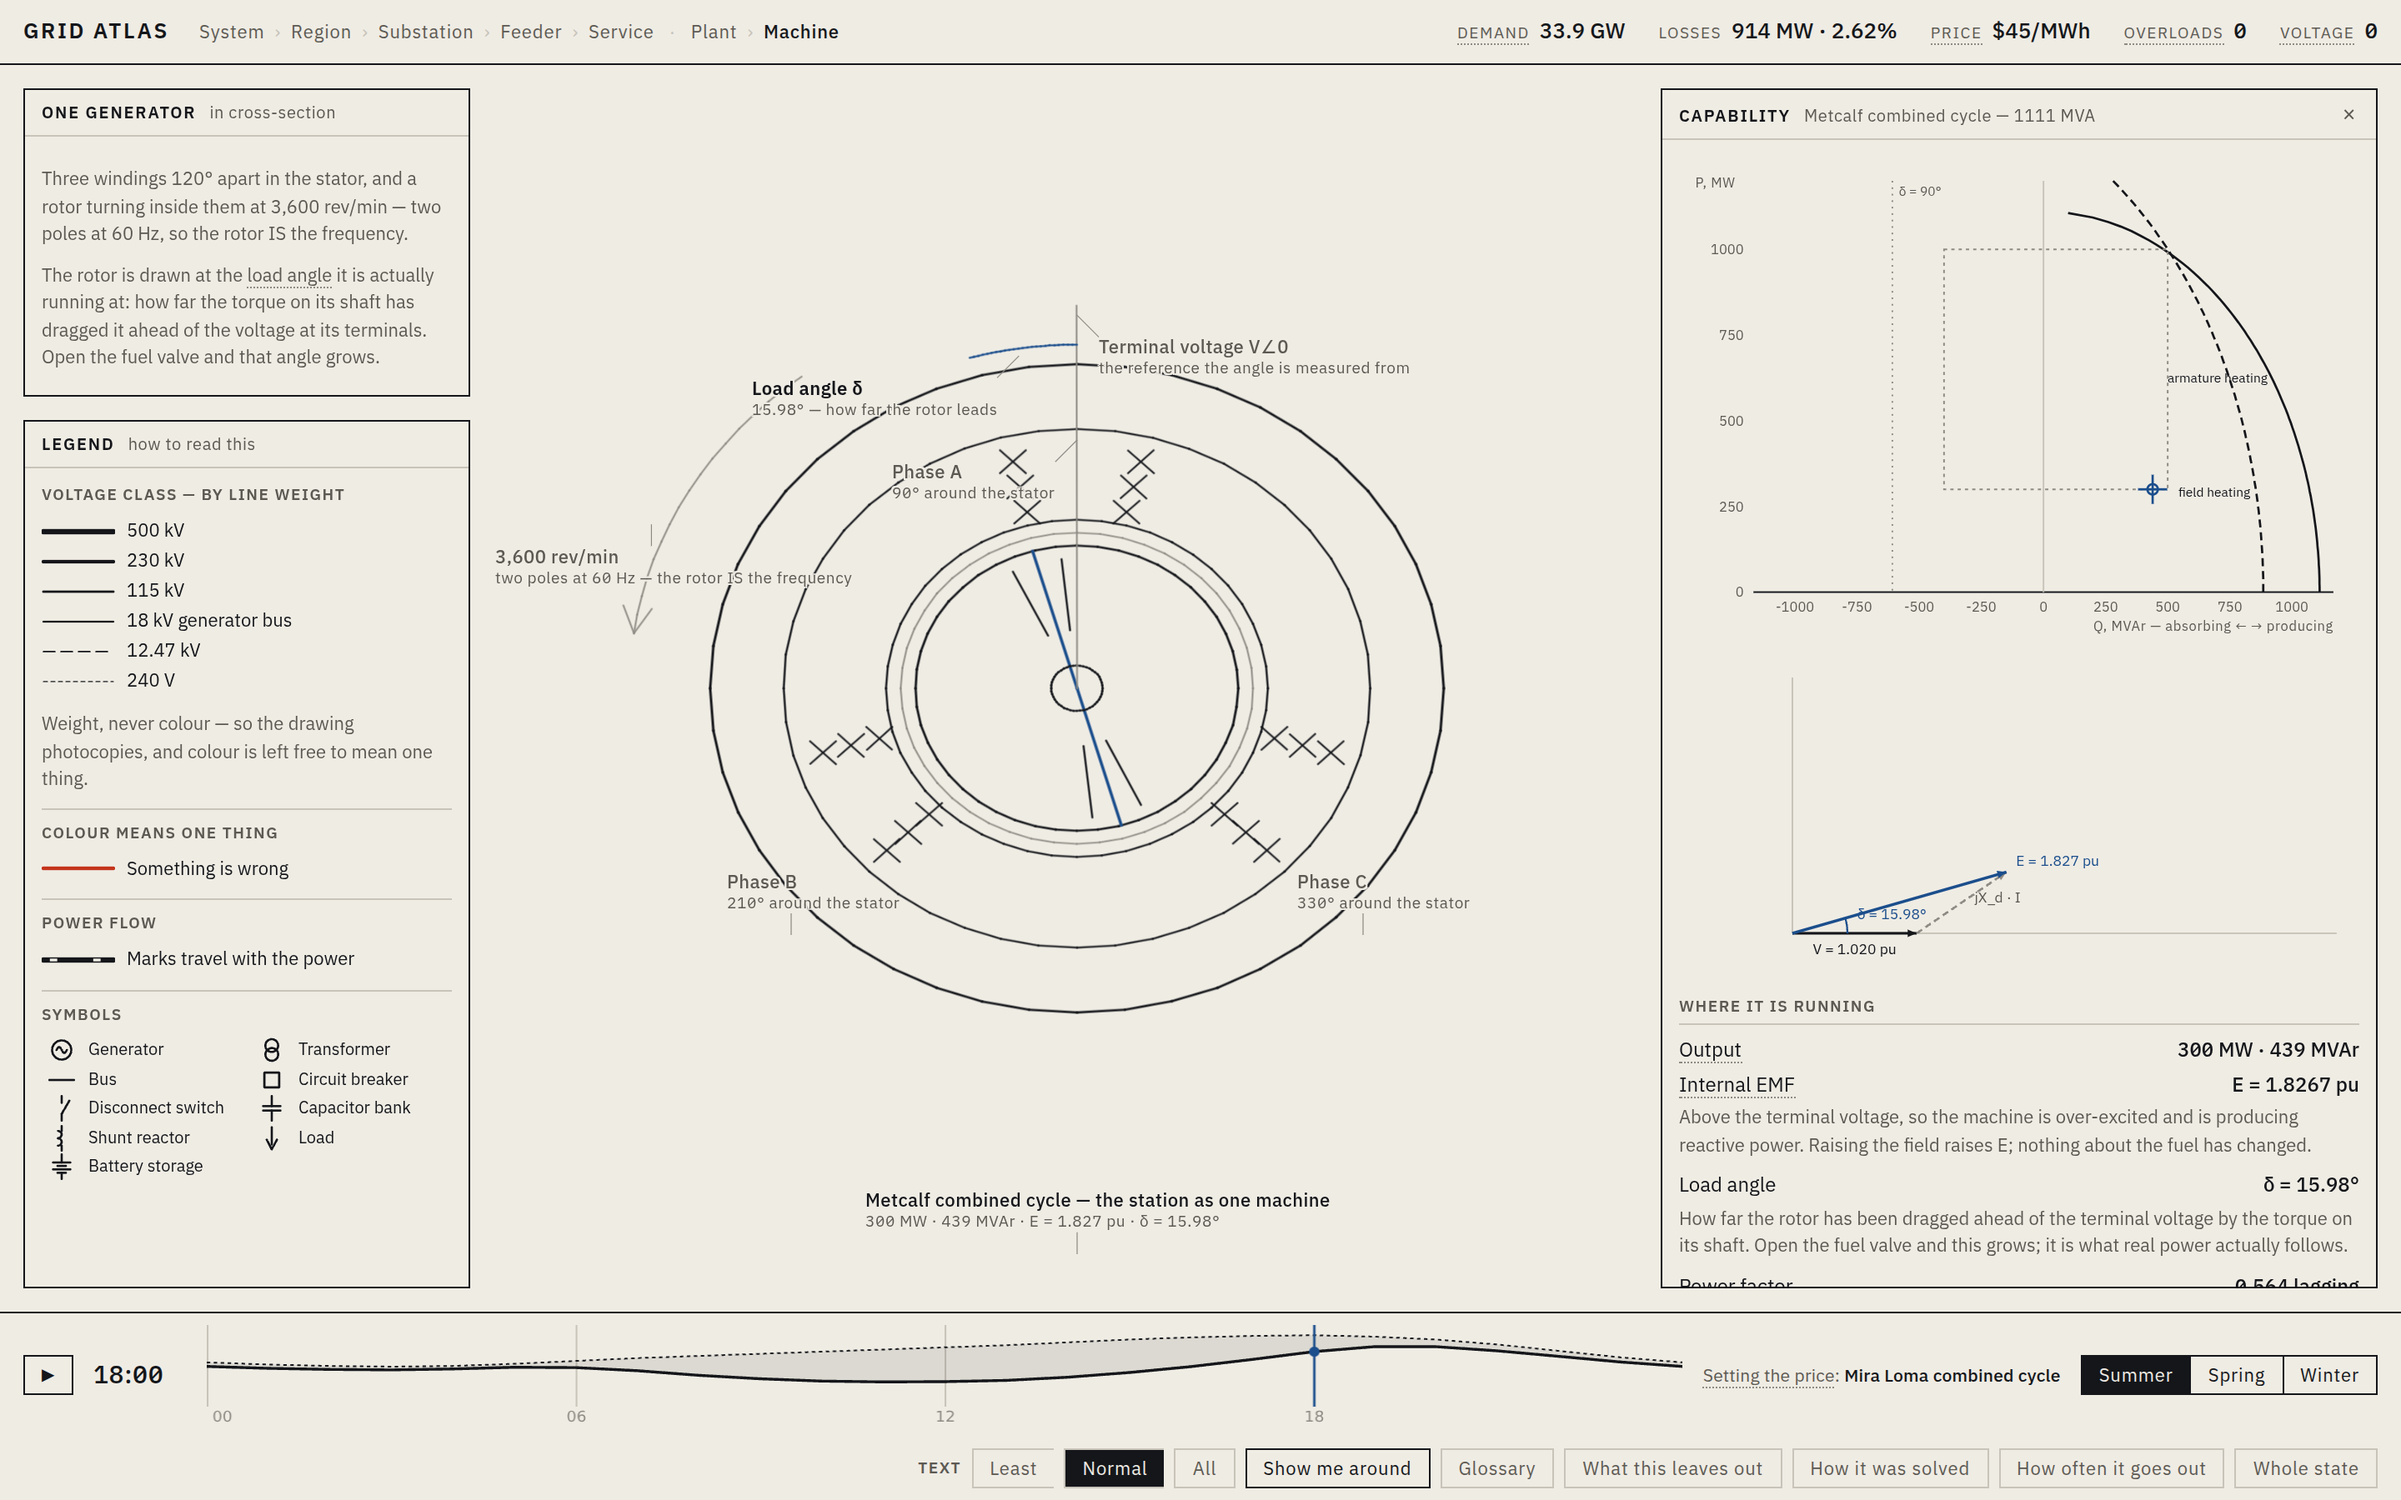
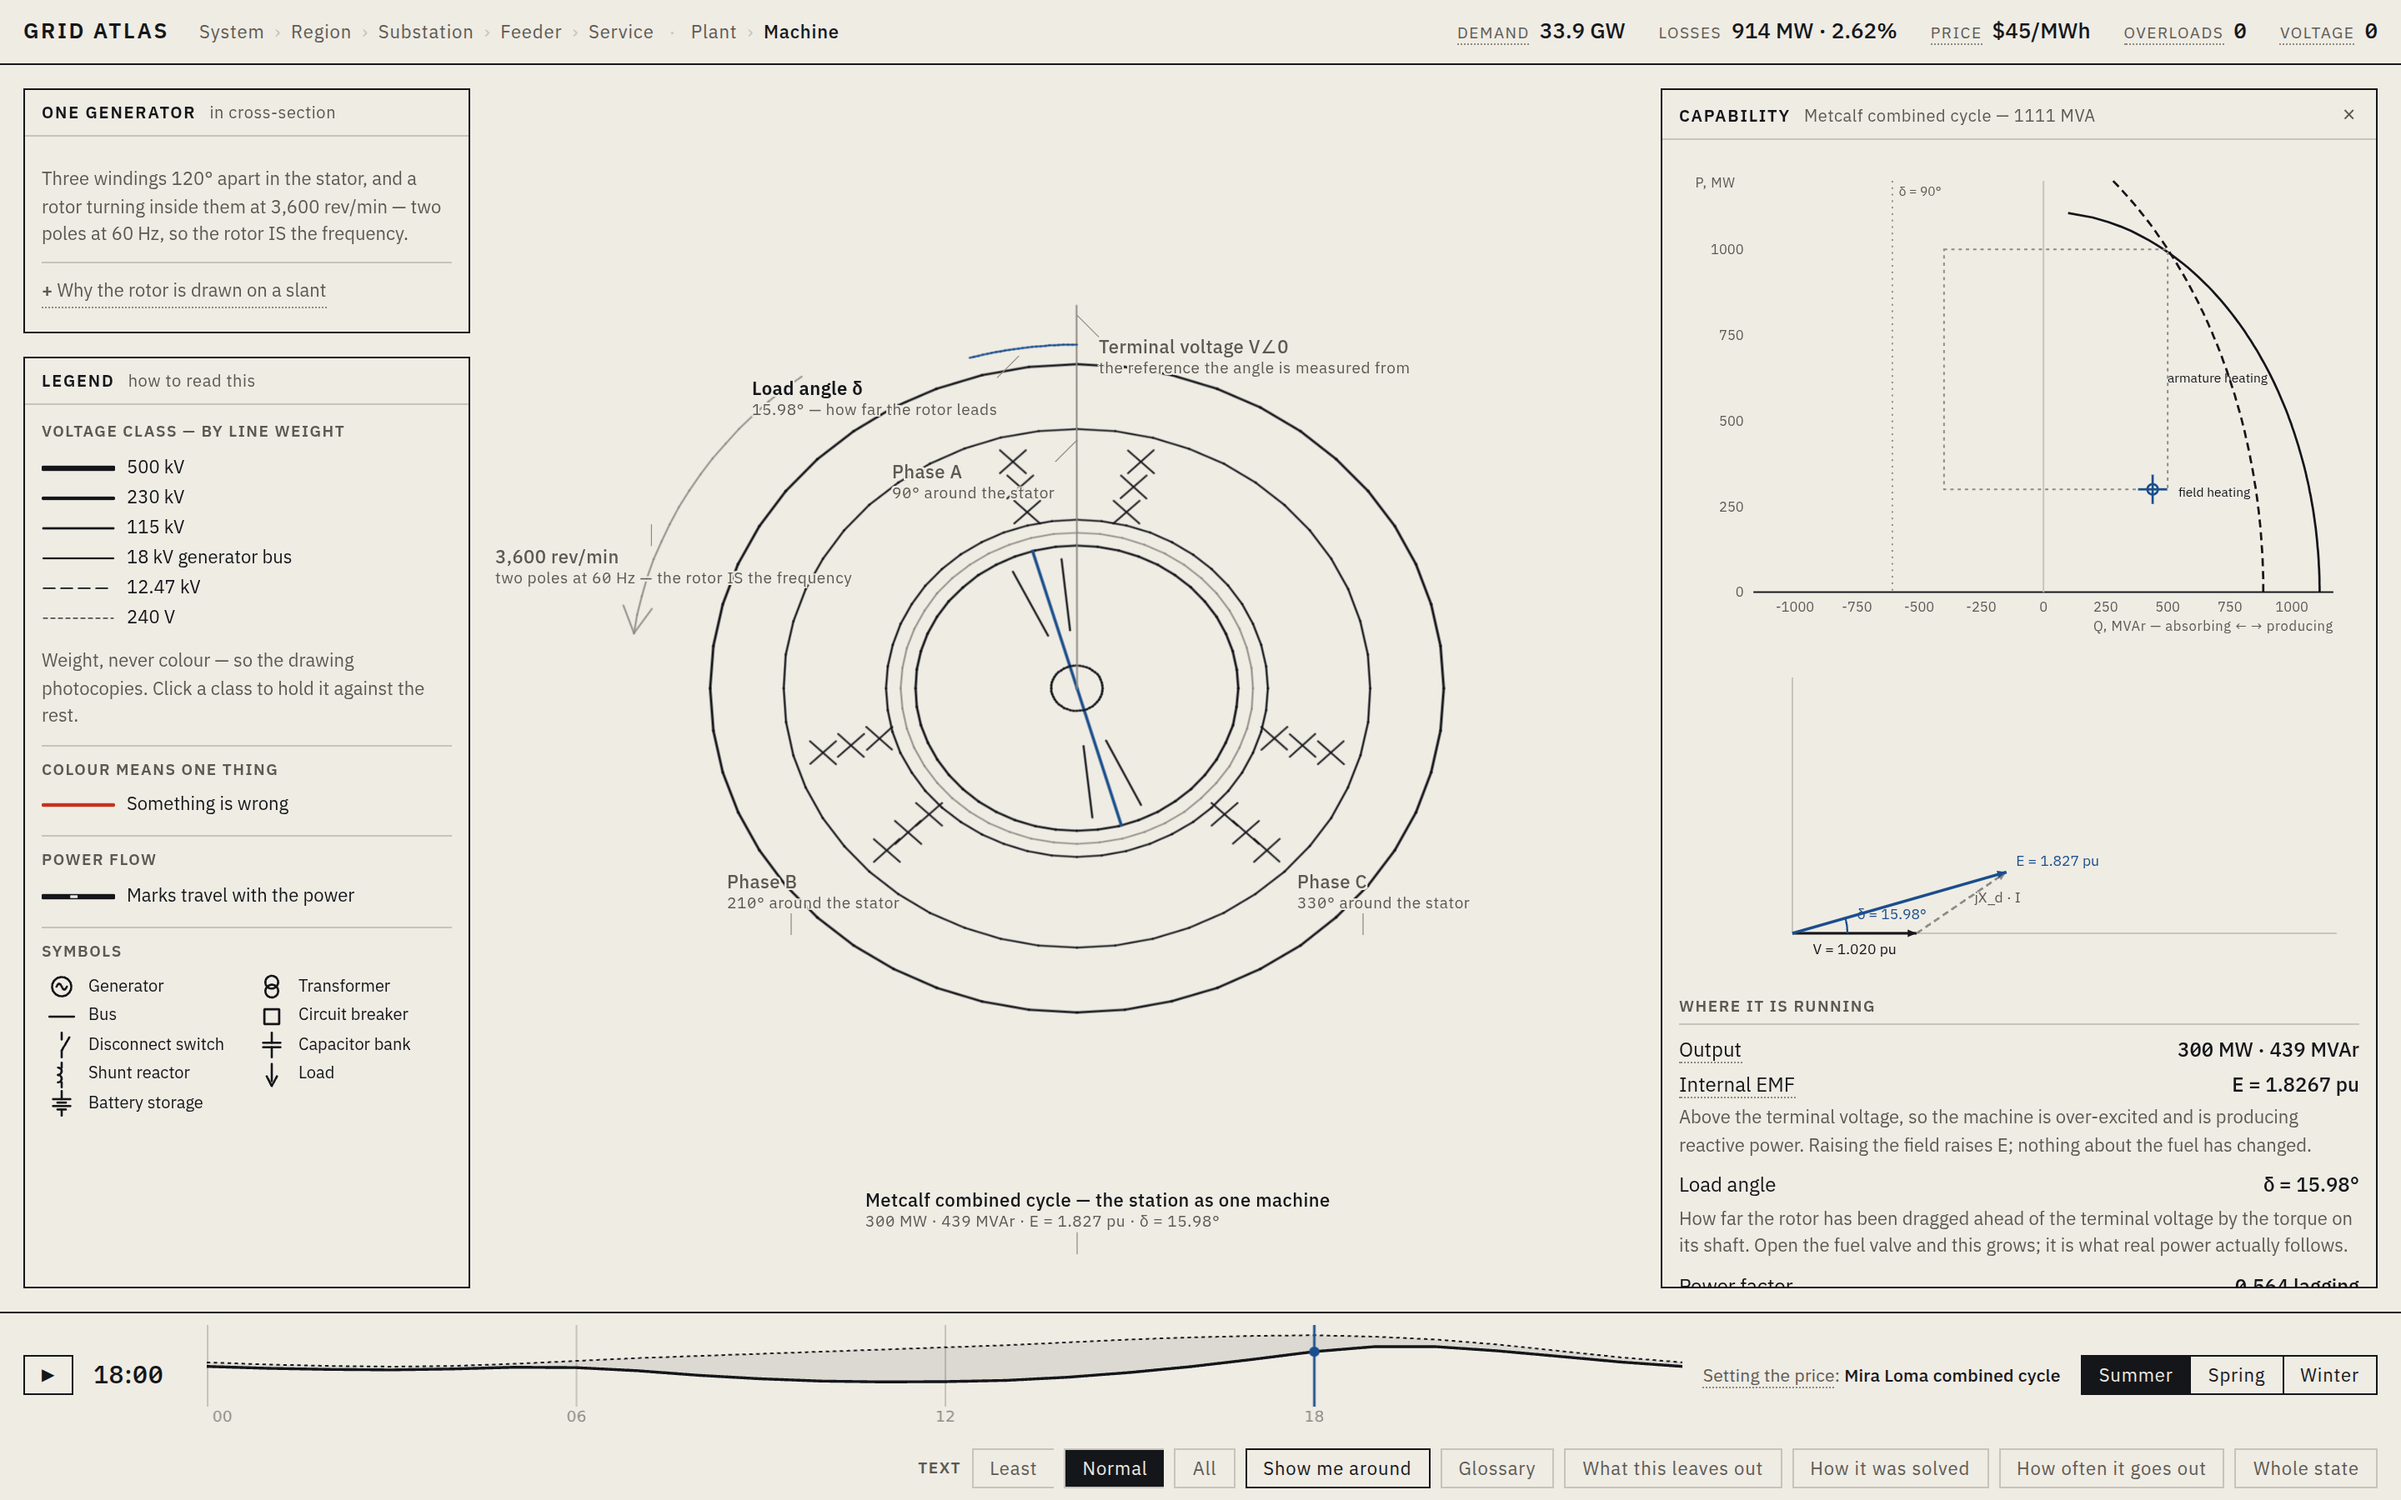
A level leads with one line and opens up when asked
Information is not free because it is true. Every level opened with
everything it had to say, so arriving anywhere meant reading three
paragraphs before looking at the drawing — and the drawing is the thing
that is supposed to be doing the explaining.

The first line stays; the rest is behind a disclosure whose summary is
phrased as the question it answers — "How to read the streams", "Why
the rotor is drawn on a slant", "The four ratios a system is planned
with" — so the click is worth making, and a reader who does not want it
is not made to read past it. It is marked the way a glossary term is
marked, because it is the same promise.

The four planning ratios moving behind one gives the system level back
about two hundred pixels, which the legend beneath it takes: the key now
reaches its symbols without scrolling.

Claude-Session: https://claude.ai/code/session_013L3ycJKAhRgYUj1wvadxW8

Changed region(s): [[0.0, 0.1556, 0.1875, 0.7778]]

diff --git a/src/app/levelbar.ts b/src/app/levelbar.ts
@@ -212,6 +212,23 @@ export class LevelBar {
    * They live at the system level because that is where the shape of the day
    * is on screen — the scrubber below is the load factor, drawn.
    */
+  /**
+   * A paragraph the reader can ask for.
+   *
+   * INFORMATION IS NOT FREE BECAUSE IT IS TRUE. Every level opened with
+   * everything it had to say, so arriving anywhere meant reading three
+   * paragraphs before looking at the drawing — and the drawing is the thing
+   * that was supposed to be doing the explaining. The first line stays; the
+   * rest is one click away, phrased as the question it answers so the click is
+   * worth making.
+   */
+  private more(summary: string, body: string): string {
+    return (
+      `<details class="more"><summary>${summary}</summary>` +
+      `<div class="more__body">${body}</div></details>`
+    );
+  }
+
   private factorsSection(): string {
     const f = this.factors;
     if (!f) return '';
@@ -219,9 +236,9 @@ export class LevelBar {
       `<div class="level__factor"><span class="level__factor-label">${label}</span>` +
       `<span class="level__factor-value num">${value}</span>` +
       `<span class="level__factor-note">${note}</span></div>`;
-    return (
+    return this.more(
+      'The four ratios a system is planned with',
       `<div class="level__factors">` +
-      `<h4 class="inspect__heading">The four ratios it is planned with</h4>` +
       `<div class="level__factor-grid">` +
       // Both numbers of each ratio, in one line rather than two: the division
       // has to stay visible — it is the whole point of showing a ratio — but
@@ -458,13 +475,15 @@ export class LevelBar {
       body.innerHTML =
         `<p class="note">Gas burns in a turbine. Its exhaust is still hot ` +
         `enough to boil water, so a second turbine runs on the steam. Together ` +
-        `they get about half the energy in the fuel out as electricity, which ` +
-        `is as good as burning anything gets.</p>` +
-        `<p class="note">Stream widths are the energy in them. The widest is ` +
-        `the fuel going in. Follow it: most comes back out as the two exhaust ` +
-        `streams, and what the steam turbine cannot use leaves through the ` +
-        `condenser. That last one is the half no engine can keep.</p>` +
-        `<p class="note">Select any piece of it for the working.</p>`;
+        `they get about half the energy in the fuel out as electricity.</p>` +
+        this.more('How to read the streams',
+          `<p class="note">Stream widths are the energy in them. The widest ` +
+          `is the fuel going in. Follow it: most comes back out as the two ` +
+          `exhaust streams, and what the steam turbine cannot use leaves ` +
+          `through the condenser. That last one is the half no engine can ` +
+          `keep — and half is as good as burning anything gets.</p>` +
+          `<p class="note">Point at any piece of it for what it is doing; ` +
+          `select it for the working.</p>`);
       return;
     }
 
@@ -476,10 +495,11 @@ export class LevelBar {
         `<p class="note">Three windings 120° apart in the stator, and a rotor ` +
         `turning inside them at 3,600 rev/min — two poles at 60 Hz, so the ` +
         `rotor IS the frequency.</p>` +
-        `<p class="note">The rotor is drawn at the ` +
-        `${term('load-angle', 'load angle')} it is actually running at: how far ` +
-        `the torque on its shaft has dragged it ahead of the voltage at its ` +
-        `terminals. Open the fuel valve and that angle grows.</p>`;
+        this.more('Why the rotor is drawn on a slant',
+          `<p class="note">It is at the ` +
+          `${term('load-angle', 'load angle')} it is actually running at: how ` +
+          `far the torque on its shaft has dragged it ahead of the voltage at ` +
+          `its terminals. Open the fuel valve and that angle grows.</p>`);
       return;
     }
 
@@ -489,12 +509,12 @@ export class LevelBar {
       sub.textContent = 'one corner of the network';
       body.innerHTML =
         `<p class="note">Closer in, the network stops being a shape and becomes ` +
-        `circuits between places. Each line here is a real circuit; parallel ` +
-        `ones are drawn side by side because that is how they are built and how ` +
-        `they share the load.</p>` +
-        `<p class="note">Click any circuit to see what it is carrying, and to ` +
-        `take it out of service. The flows redistribute through what is left, ` +
-        `by an actual re-solve.</p>` +
+        `circuits between places. Each line here is a real circuit.</p>` +
+        this.more('What you can do to it',
+          `<p class="note">Parallel circuits are drawn side by side because ` +
+          `that is how they are built and how they share the load. Click any ` +
+          `one to see what it is carrying, and to take it out of service: the ` +
+          `flows redistribute through what is left, by an actual re-solve.</p>`) +
         (this.tripped > 0
           ? `<div class="inspect__actions">` +
             `<button class="btn" data-role="restore">Put ` +

diff --git a/src/app/styles.css b/src/app/styles.css
@@ -448,6 +448,32 @@ button, select, input {
 .seg__btn:last-of-type { border-right-width: 1px; }
 .seg__btn[aria-pressed='true'] { background: var(--ink); color: var(--ground); }
 
+/* A paragraph the reader can ask for. The summary is phrased as the question
+   it answers, and marked the way a term is marked, because it is the same
+   promise: there is more here if you want it. */
+.more {
+  margin-top: 8px;
+  border-top: var(--rule);
+  padding-top: 7px;
+}
+.more > summary {
+  cursor: pointer;
+  list-style: none;
+  font-size: 11px;
+  color: var(--ink-muted);
+  border-bottom: 1px dotted var(--ink-faint);
+  display: inline-block;
+  padding-bottom: 1px;
+}
+.more > summary::-webkit-details-marker { display: none; }
+.more > summary::before {
+  content: '+ ';
+  font-weight: 600;
+}
+.more[open] > summary::before { content: '\2212 '; }
+.more > summary:hover { color: var(--ink); border-bottom-color: var(--ink); }
+.more__body > .note:first-child { margin-top: 6px; }
+
 /* --------------------------------------------------------------------- */
 /* Time scrubber                                                          */
 /* --------------------------------------------------------------------- */

diff --git a/docs/style.md b/docs/style.md
@@ -219,6 +219,20 @@ worth keeping when there is room for one.
 
 What makes *Least* quiet rather than lossy is the rule below.
 
+## A level leads with one line and opens up when asked
+
+Information is not free because it is true. Every level used to open with
+everything it had to say, so arriving anywhere meant reading three paragraphs
+before looking at the drawing — and the drawing is the thing that was supposed
+to be doing the explaining.
+
+The first line stays. The rest sits behind a disclosure whose summary is
+phrased as the question it answers — *How to read the streams*, *Why the rotor
+is drawn on a slant*, *The four ratios a system is planned with* — so the click
+is worth making, and so a reader who does not need it is not made to read past
+it. The summary is marked the way a glossary term is marked, because it is the
+same promise: there is more here if you want it.
+
 ## The legend is the filter
 
 A key that explains an encoding is the obvious place to ask for one part of it:
